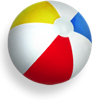
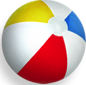
Added bounce
And trimmed ball sprite so its rectangle is the right size

diff --git a/beachgame/penguin.py b/beachgame/penguin.py
@@ -39,9 +39,9 @@ def startPositions():
   
   penguin.image = 'penguin2'
   cow.image = 'cow'
-  penguin.pos = 35, 350  # The initial position of the penguin
+  penguin.pos = 35, 370  # The initial position of the penguin
   cow.pos = 550, 370  # The initial position of the cow
-  ball.pos = 0, HEIGHT*2  # off screen
+  ball.pos = 100, -100  # off screen
   ball_vx = 0
   ball_vy = 0
   score = 0
@@ -55,10 +55,11 @@ startPositions() # Set the initial positions of the spacecraft and rock
 
 
 def newBallPos():
-  return  random.randint(0,WIDTH), -50  # off screen
+  print("in new ball pos")
+  return  random.randint(0,WIDTH), 50  # off screen
 
 def newBallVel():
-  return  (random.randint(-2,2),  (random.randint(2,4) ) ) # off screen
+  return  (random.randint(-2,2),  (random.randint(4,6) ) ) # off screen
 
 def on_key_down(key):
   if key == keys.SPACE:
@@ -103,7 +104,7 @@ def resetPositions():
   global together
   penguin.image = 'penguin2'
   cow.image = 'cow'
-  penguin.pos = 35, 350  # The initial position of the penguin
+  penguin.pos = 35, 370  # The initial position of the penguin
   together = False
   (ball.x, ball.y) = newBallPos()
   (ball_vx, ball_vy) = newBallVel()
@@ -125,13 +126,20 @@ def updateBall():
   global ball_vx
   global ball_vy
   
-  if ball.top > HEIGHT or ball.right < 0 or ball.left > WIDTH:
-   # print("off screen")
+  if ball.bottom > HEIGHT - 20:
+    print("in if one")
+    #ball_vx = -1 * ball_vx
+    ball_vy = -1 * ball_vy
+  
+  if  ball.right < 0 or ball.left > WIDTH or ball.bottom < 0:
+    print("in if two")
     (ball.x, ball.y) = newBallPos()
     (ball_vx, ball_vy) = newBallVel()
 
+  print("in updateball  " + str(ball.bottom))
   ball.y = ball.y + ball_vy
   ball.x = ball.x + ball_vx
+  print("in updateball2  " + str(ball.bottom))
   ball.draw()
 
 
